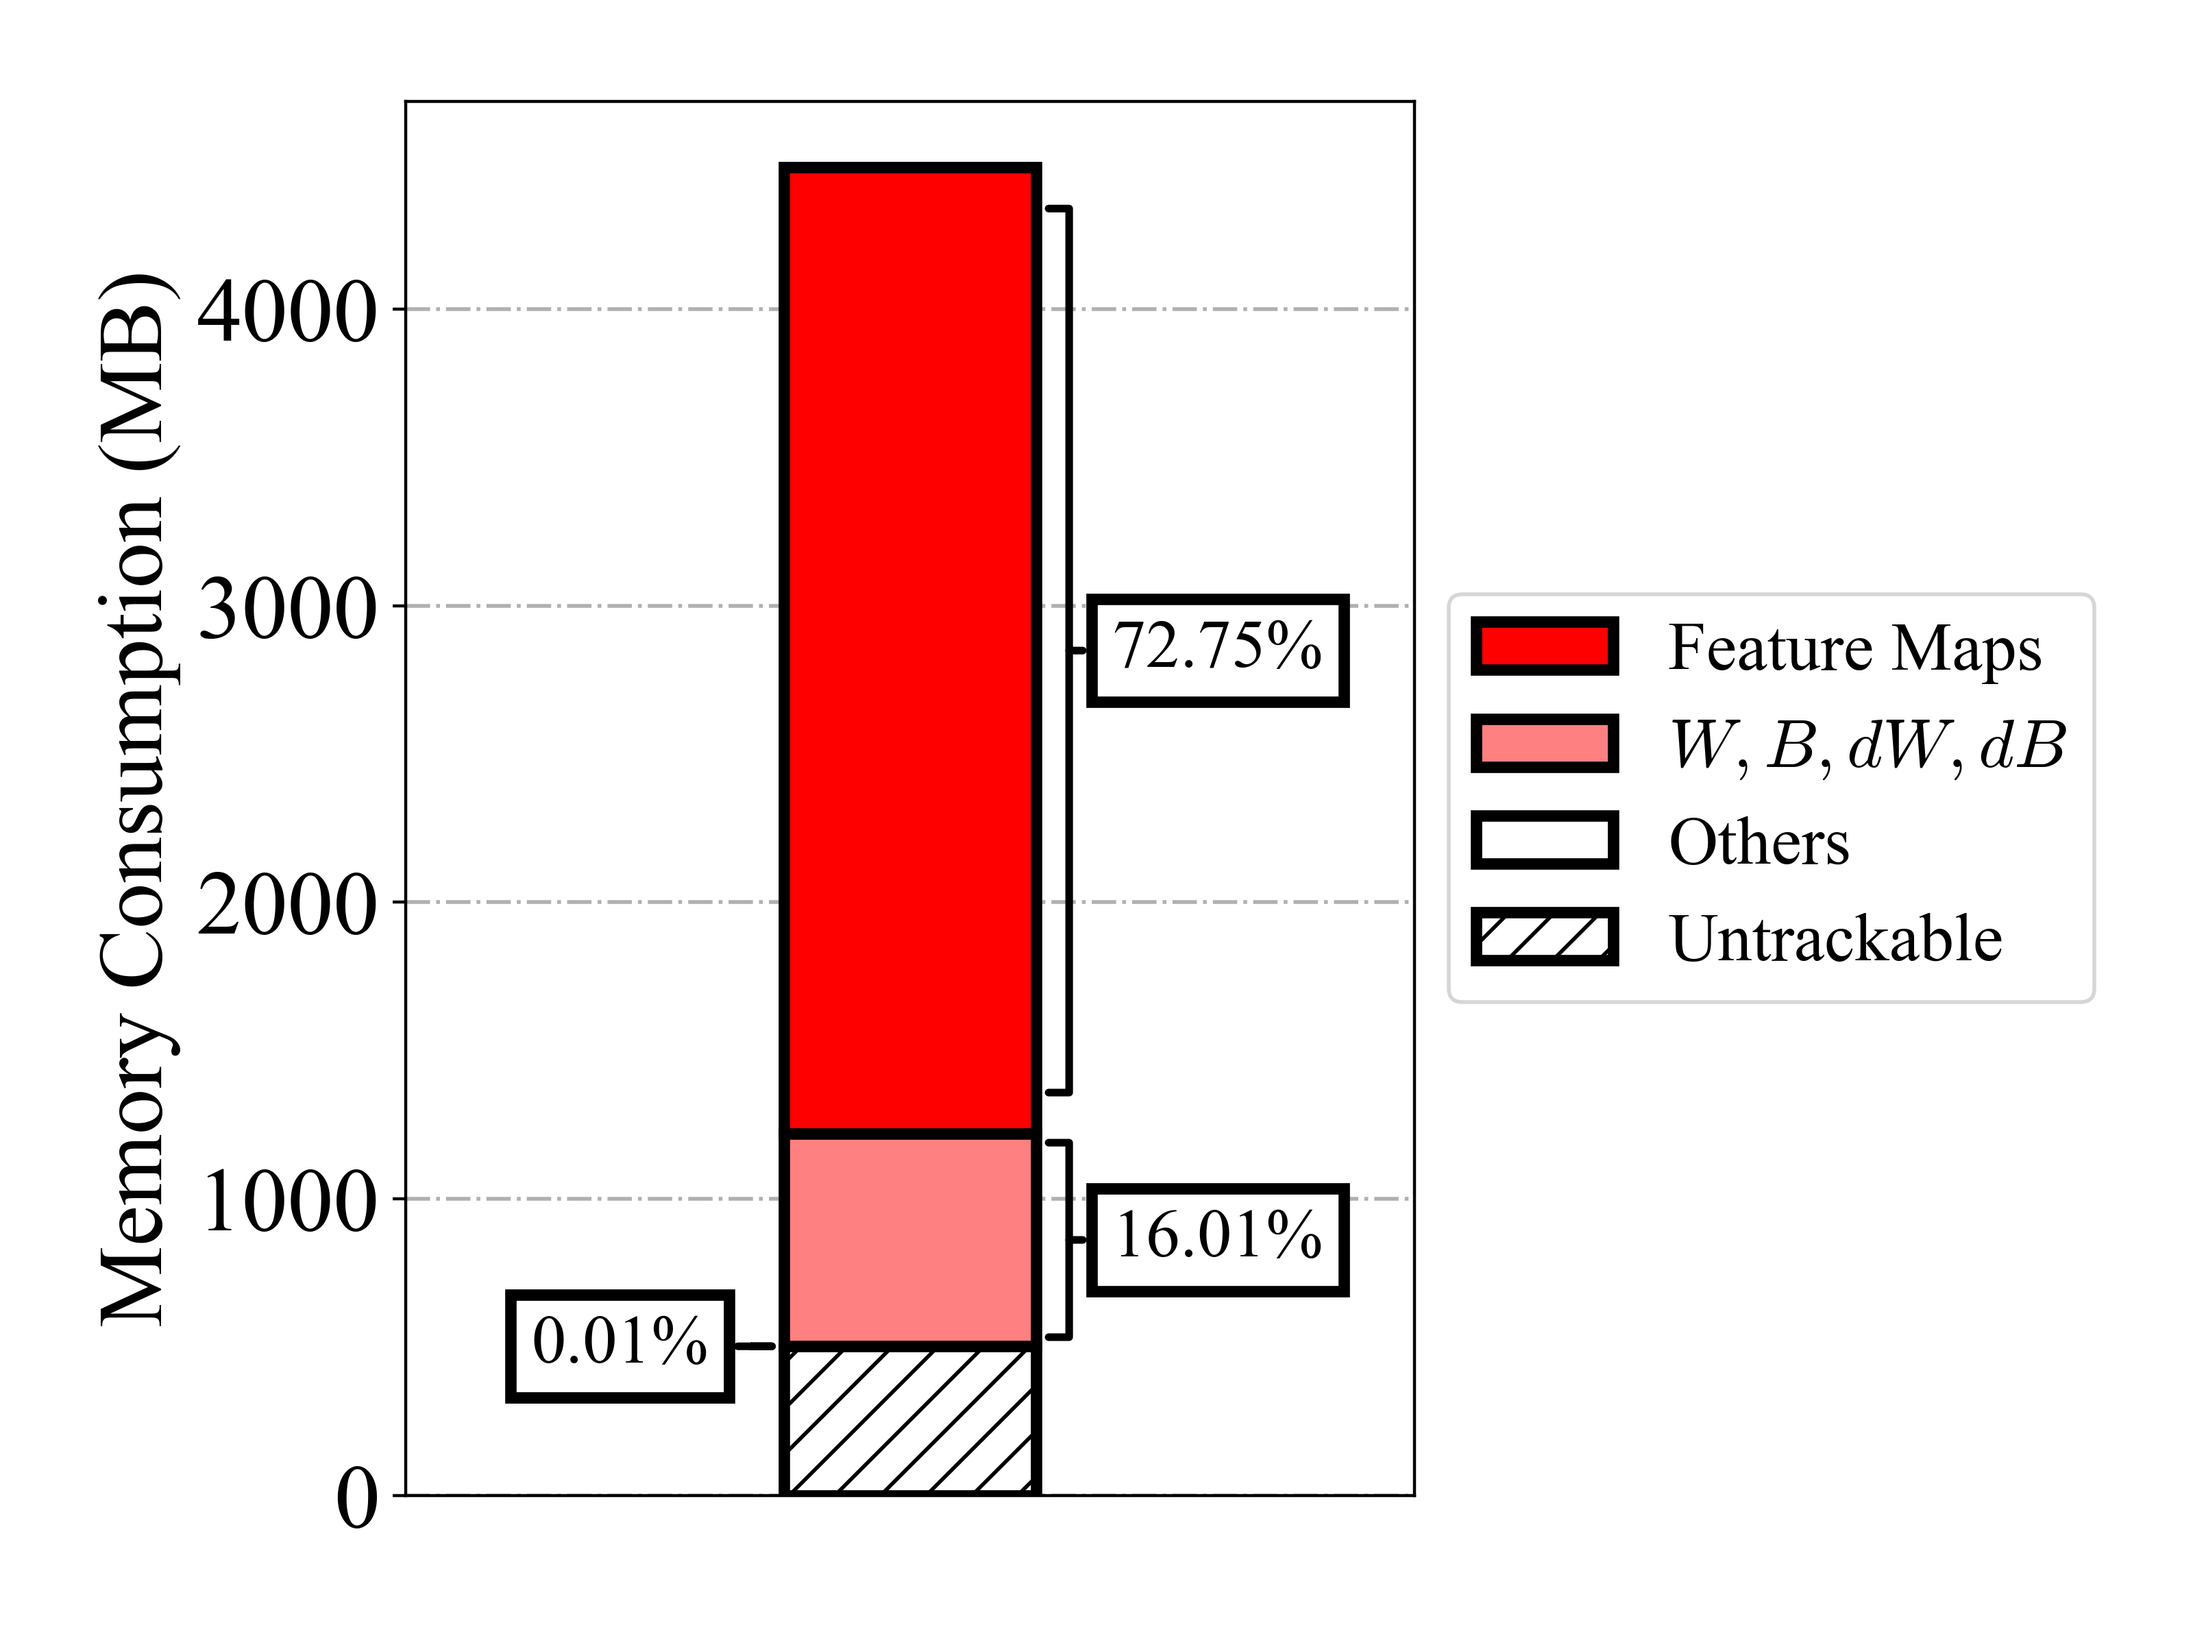
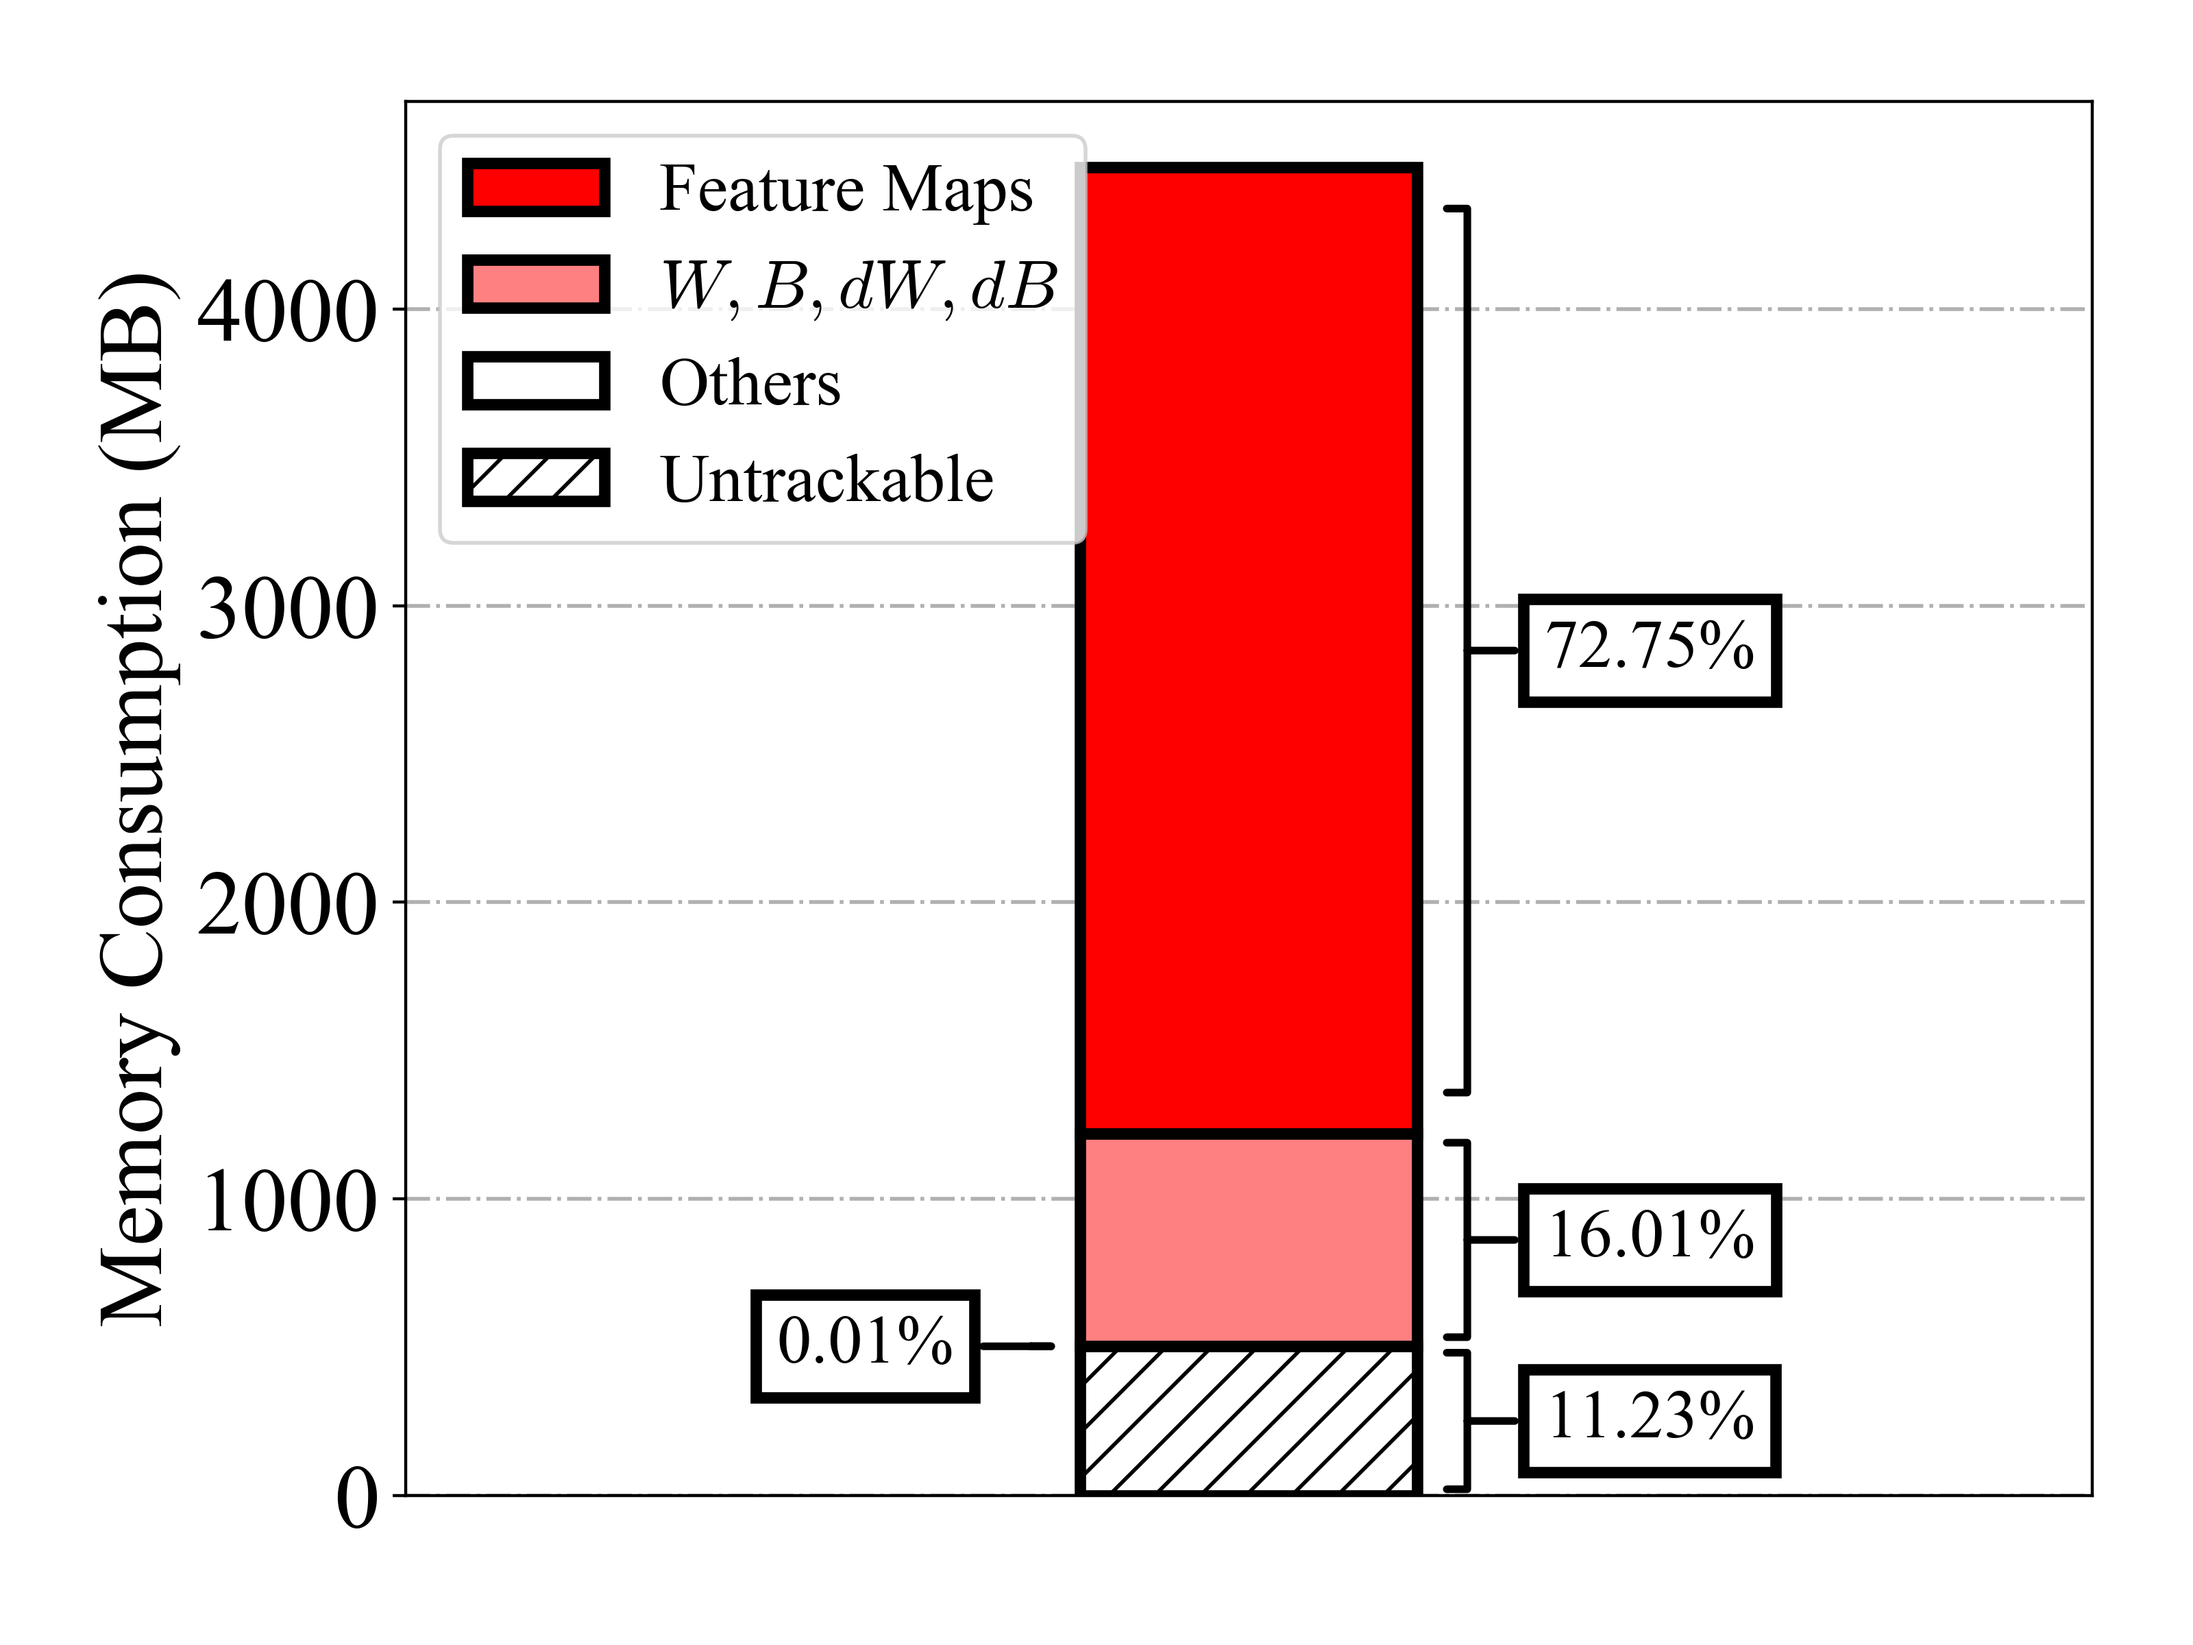
Updated the graphs.

Changed region(s): [[0.1875, 0.0938, 0.9688, 0.9062], [0.9375, 0.5938, 0.9688, 0.625], [0.9375, 0.5312, 0.9688, 0.5625]]

diff --git a/workspace/results/plotter.py b/workspace/results/plotter.py
@@ -56,7 +56,7 @@ def plt_memory_breakdown(sorted_stats_list,
                          expected_sum,
                          fig_name,
                          bar_width=0.3,
-                         annotation_top_k=5,
+                         annotation_top_k=None,
                          annotation_fontsize=18,
                          annotation_length_ratio=0.00011):
     """
@@ -89,7 +89,7 @@ def plt_memory_breakdown(sorted_stats_list,
 
     for i in range(sorted_stats_list_len):
         plt.bar(x=0, height=sorted_stats_vlist[i], bottom=np.sum(sorted_stats_vlist[i+1:]),
-                width=bar_width, edgecolor='black', linewidth=3,
+                width=bar_width * 0.8, edgecolor='black', linewidth=3,
                 # color=np.array([1, 
                 #                 1 - sorted_stats_vlist[i] / expected_sum,
                 #                 1 - sorted_stats_vlist[i] / expected_sum]),
@@ -101,14 +101,14 @@ def plt_memory_breakdown(sorted_stats_list,
                 hatch='//' if sorted_stats_klist[i] is 'Untrackable' else '',
                 label=sorted_stats_klist[i])
                 # label=(sorted_stats_klist[i] + ' (%.2f%%)') % (sorted_stats_vlist[i] * 100.0 / expected_sum))
-        if i < annotation_top_k:
+        if annotation_top_k is None or i < annotation_top_k:
             middle_pos = sorted_stats_vlist[i] / 2 + np.sum(sorted_stats_vlist[i+1:])
             bar_length = sorted_stats_vlist[i]
             switch_side_flag = False if i >= 2 and i % 2 == 0 else True
             
             plt.annotate(('%.2f%%') % (sorted_stats_vlist[i] * 100.0 / expected_sum),
-                         xy    =(0.6*bar_width * (1 if switch_side_flag is True else -1), middle_pos), 
-                         xytext=(0.8*bar_width * (1 if switch_side_flag is True else -1), middle_pos), 
+                         xy    =(0.5*bar_width * (1 if switch_side_flag is True else -1), middle_pos), 
+                         xytext=(0.7*bar_width * (1 if switch_side_flag is True else -1), middle_pos), 
                          fontsize=annotation_fontsize,
                          ha='left' if switch_side_flag is True else 'right', 
                          va='center', 
@@ -138,7 +138,8 @@ def plt_memory_breakdown(sorted_stats_list,
 
     # Grid & Legend
     plt.grid(linestyle='-.', linewidth=1, axis='y')
-    plt.legend(loc='center left', bbox_to_anchor=(1, 0.5), fontsize=annotation_fontsize)
+    plt.legend(loc=2, fontsize=18)
+    # plt.legend(loc='center left', bbox_to_anchor=(1, 0.5), fontsize=annotation_fontsize)
     
     # Tighten Layout and Savefig
     plt.tight_layout()
@@ -161,5 +162,4 @@ if __name__ == "__main__":
                                              regex_dict=SOCKEYE_FUNCTION_REGEX_DICT)
     plt_memory_breakdown(sorted_stats_list=sorted_stats_list, 
                          expected_sum=4477, 
-                         fig_name='sockeye-memory_profile-groundhog_iwslt15-function.png',
-                         annotation_top_k=3)
+                         fig_name='sockeye-memory_profile-groundhog_iwslt15-function.png')
